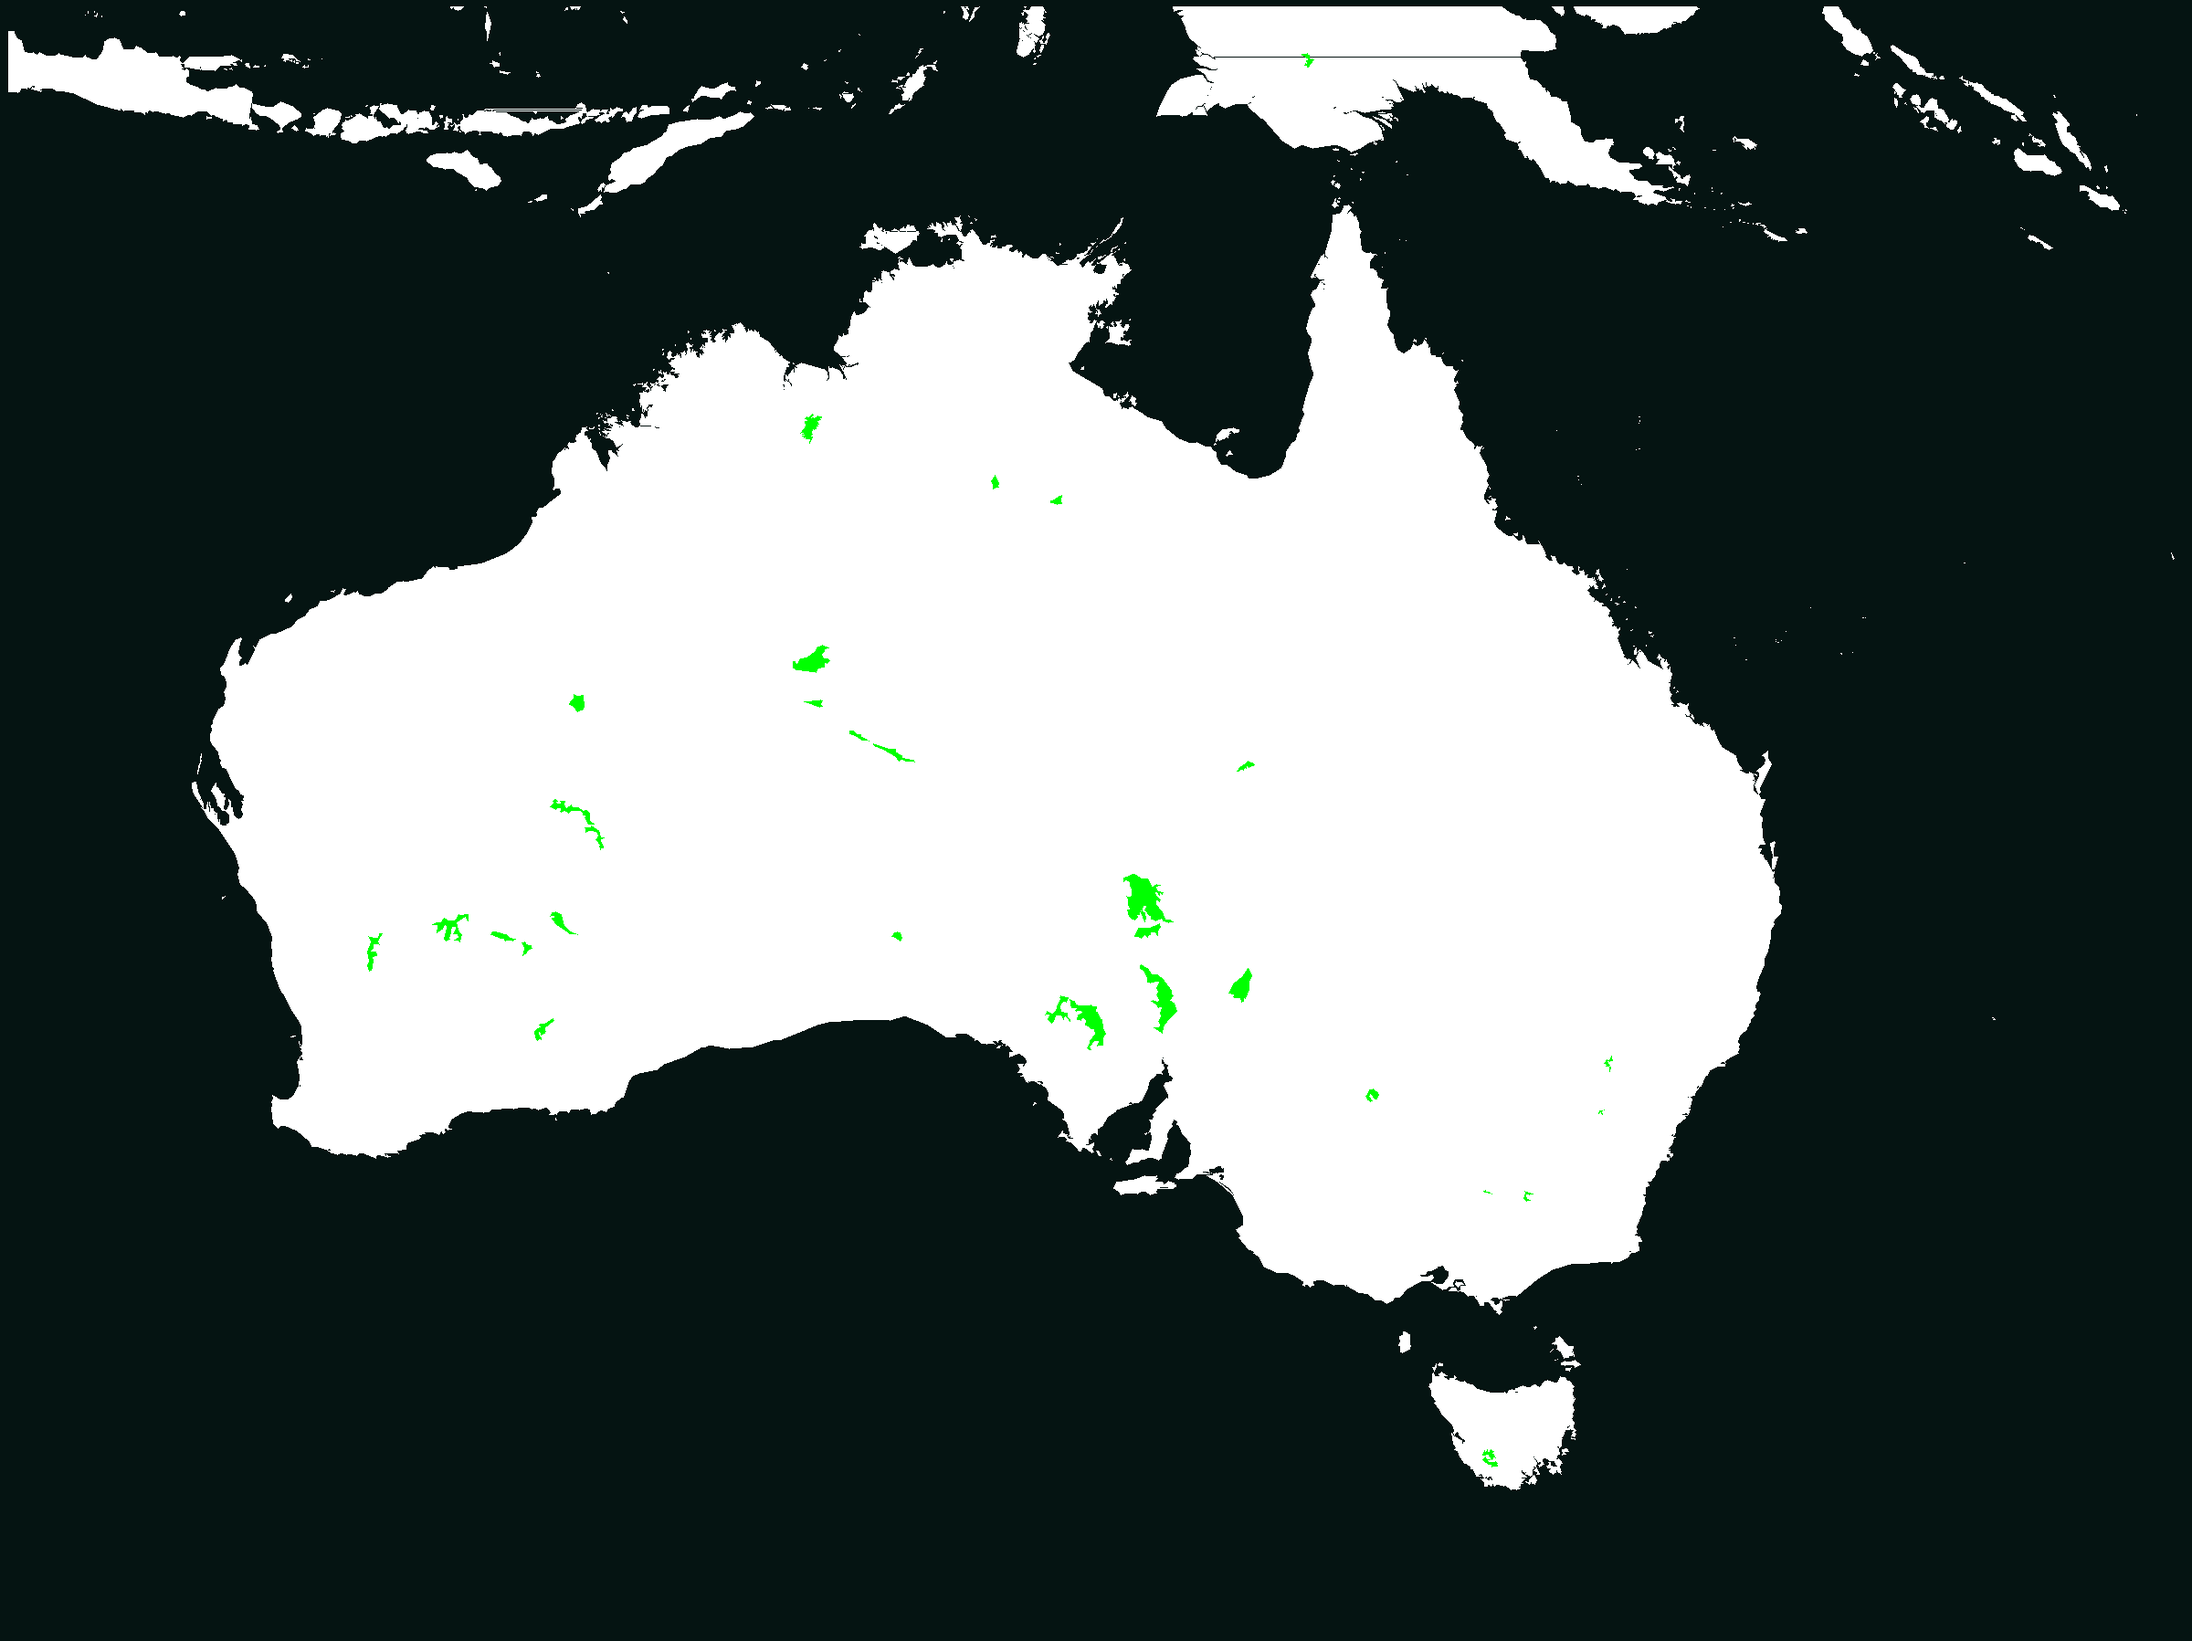
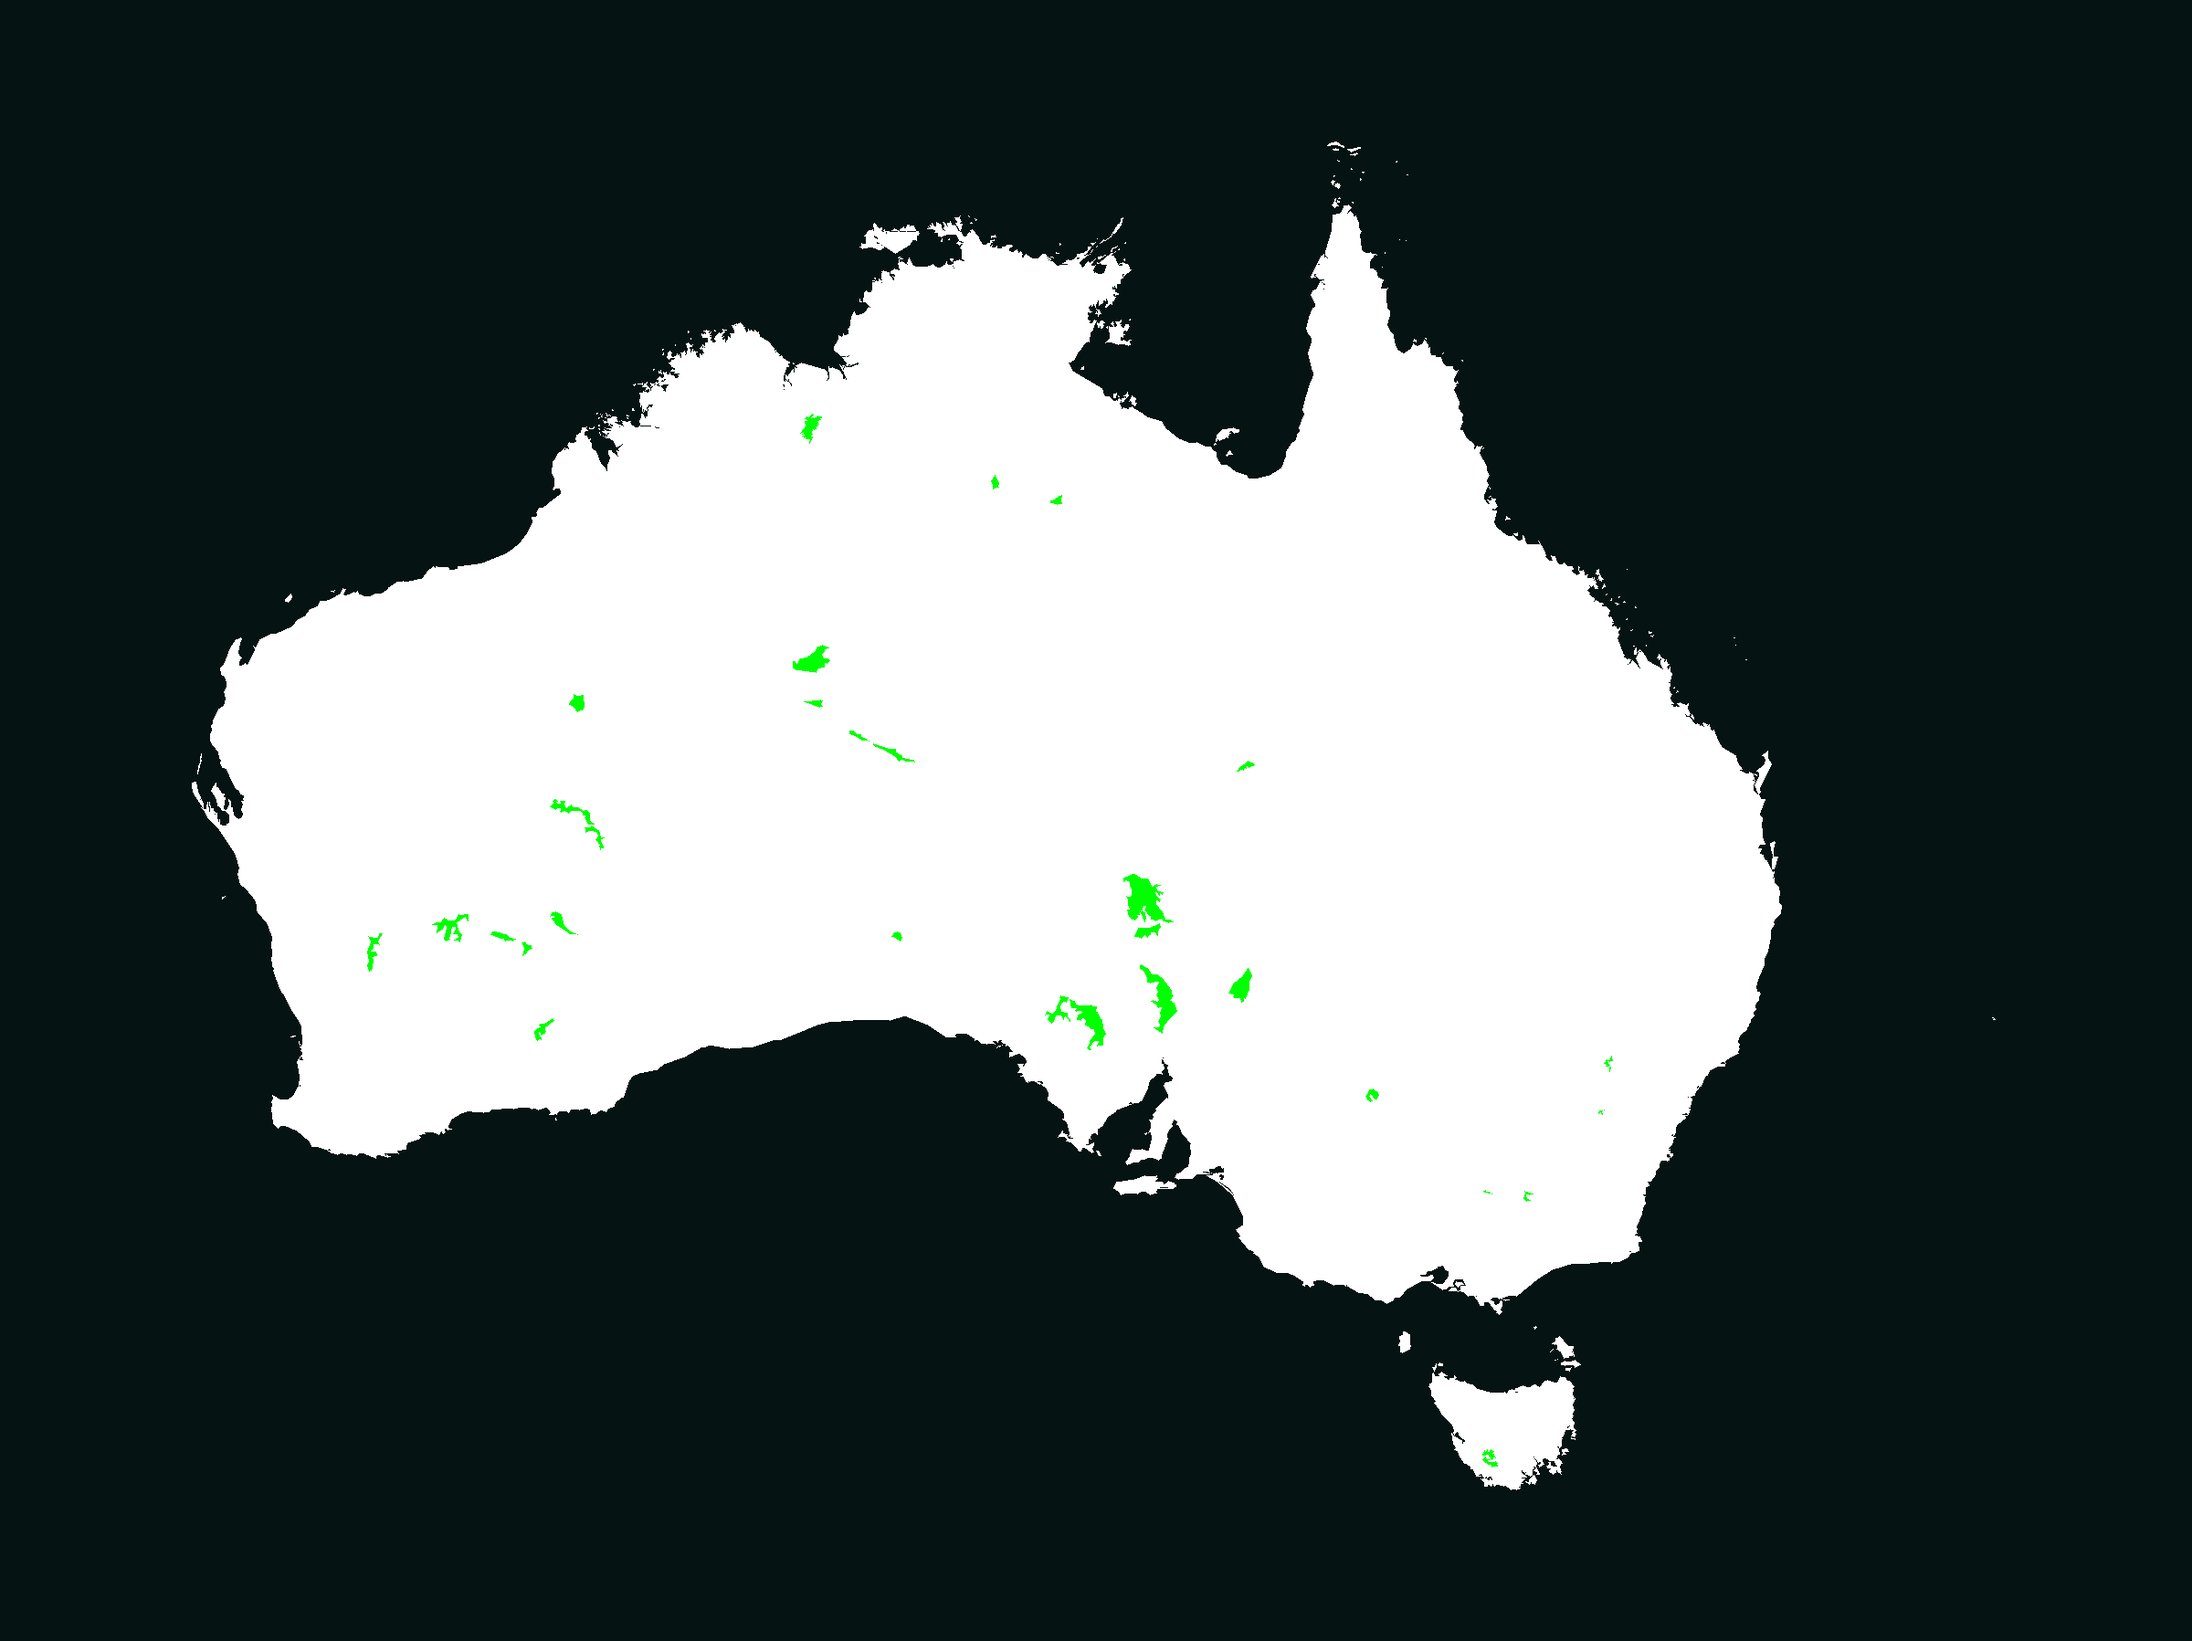
fix: mask land image to boundary region to exclude foreign landmasses
Land image generation now masks the Natural Earth coastline data to only
keep land within the loaded boundary polygons' region. This prevents
neighbouring countries (Indonesia, Papua New Guinea) from appearing in
the land image when the bounding box spans multiple countries.

Uses shapely unary_union of all boundary polygons, buffered outward
by 0.1 degrees to capture coastline gaps, then rasterized as a binary
mask applied to the generated land image.

diff --git a/ui/map_import_tab.py b/ui/map_import_tab.py
@@ -412,7 +412,8 @@ class MapImportTab(QWidget):
         self._btn_add.setEnabled(False)
 
     def _on_generate_land(self):
-        """Generate a land/sea image from coastline data."""
+        """Generate a land/sea image from coastline data, masked to the
+        boundary region so only the target country's landmass is kept."""
         if not self._combined_features or self._bbox is None:
             return
 
@@ -436,6 +437,9 @@ class MapImportTab(QWidget):
             )
             return
 
+        # Mask: remove land outside the boundary region (neighbouring countries)
+        land_img = self._mask_land_to_boundaries(land_img)
+
         # Set on the Land Image tab
         self._main.land_image_display.set_image(land_img)
         self._main.check_territory_ready()
@@ -455,6 +459,74 @@ class MapImportTab(QWidget):
     # ------------------------------------------------------------------
     # Helpers
     # ------------------------------------------------------------------
+
+    def _mask_land_to_boundaries(self, land_img):
+        """Mask the land image so only the target country's landmass is kept.
+
+        Builds a mask from the union of all loaded boundary polygons
+        (buffered outward slightly to capture the coastline), then converts
+        any land pixels outside that mask back to ocean.  This prevents
+        neighbouring countries (e.g. Indonesia, PNG) from appearing in
+        the land image.
+        """
+        from shapely.geometry import Polygon, MultiPolygon, shape
+        from shapely.ops import unary_union
+
+        # Build union of all boundary polygon geometries
+        polys = []
+        for feat in self._combined_features:
+            geom = feat.get("geometry")
+            if geom is None:
+                continue
+            try:
+                polys.append(shape(geom))
+            except Exception:
+                continue
+        if not polys:
+            return land_img
+
+        boundary_union = unary_union(polys)
+        if boundary_union.is_empty:
+            return land_img
+
+        # Buffer outward by ~0.1 degrees to capture coastline gaps
+        buffered = boundary_union.buffer(0.1)
+
+        # Clip to the image's geographic bbox
+        from shapely.geometry import box
+        min_lon, min_lat, max_lon, max_lat = self._bbox
+        clip = box(min_lon, min_lat, max_lon, max_lat)
+        mask_geom = buffered.intersection(clip)
+        if mask_geom.is_empty:
+            return land_img
+
+        # Rasterize the mask: white inside, black outside
+        import numpy as np
+        from PIL import Image, ImageDraw
+        mask_img = Image.new("L", land_img.size, 0)
+        draw = ImageDraw.Draw(mask_img)
+
+        polys_to_draw = (
+            mask_geom.geoms if mask_geom.geom_type == "MultiPolygon"
+            else [mask_geom]
+        )
+        for poly in polys_to_draw:
+            if poly.geom_type != "Polygon" or poly.exterior is None:
+                continue
+            pixels = [
+                _lonlat_to_pixel(x, y, self._bbox, land_img.width, land_img.height)
+                for x, y in poly.exterior.coords
+            ]
+            if len(pixels) >= 3:
+                draw.polygon(pixels, fill=255)
+
+        # Apply mask: where mask is black -> ocean
+        mask_arr = np.array(mask_img)
+        land_arr = np.array(land_img)
+        ocean_color = np.array([5, 20, 18, 255], dtype=np.uint8)
+        land_arr[mask_arr == 0] = ocean_color
+
+        return Image.fromarray(land_arr, "RGBA")
 
     def _get_land_polygon(self):
         """Return a shapely Polygon/MultiPolygon of land for the current bbox.
